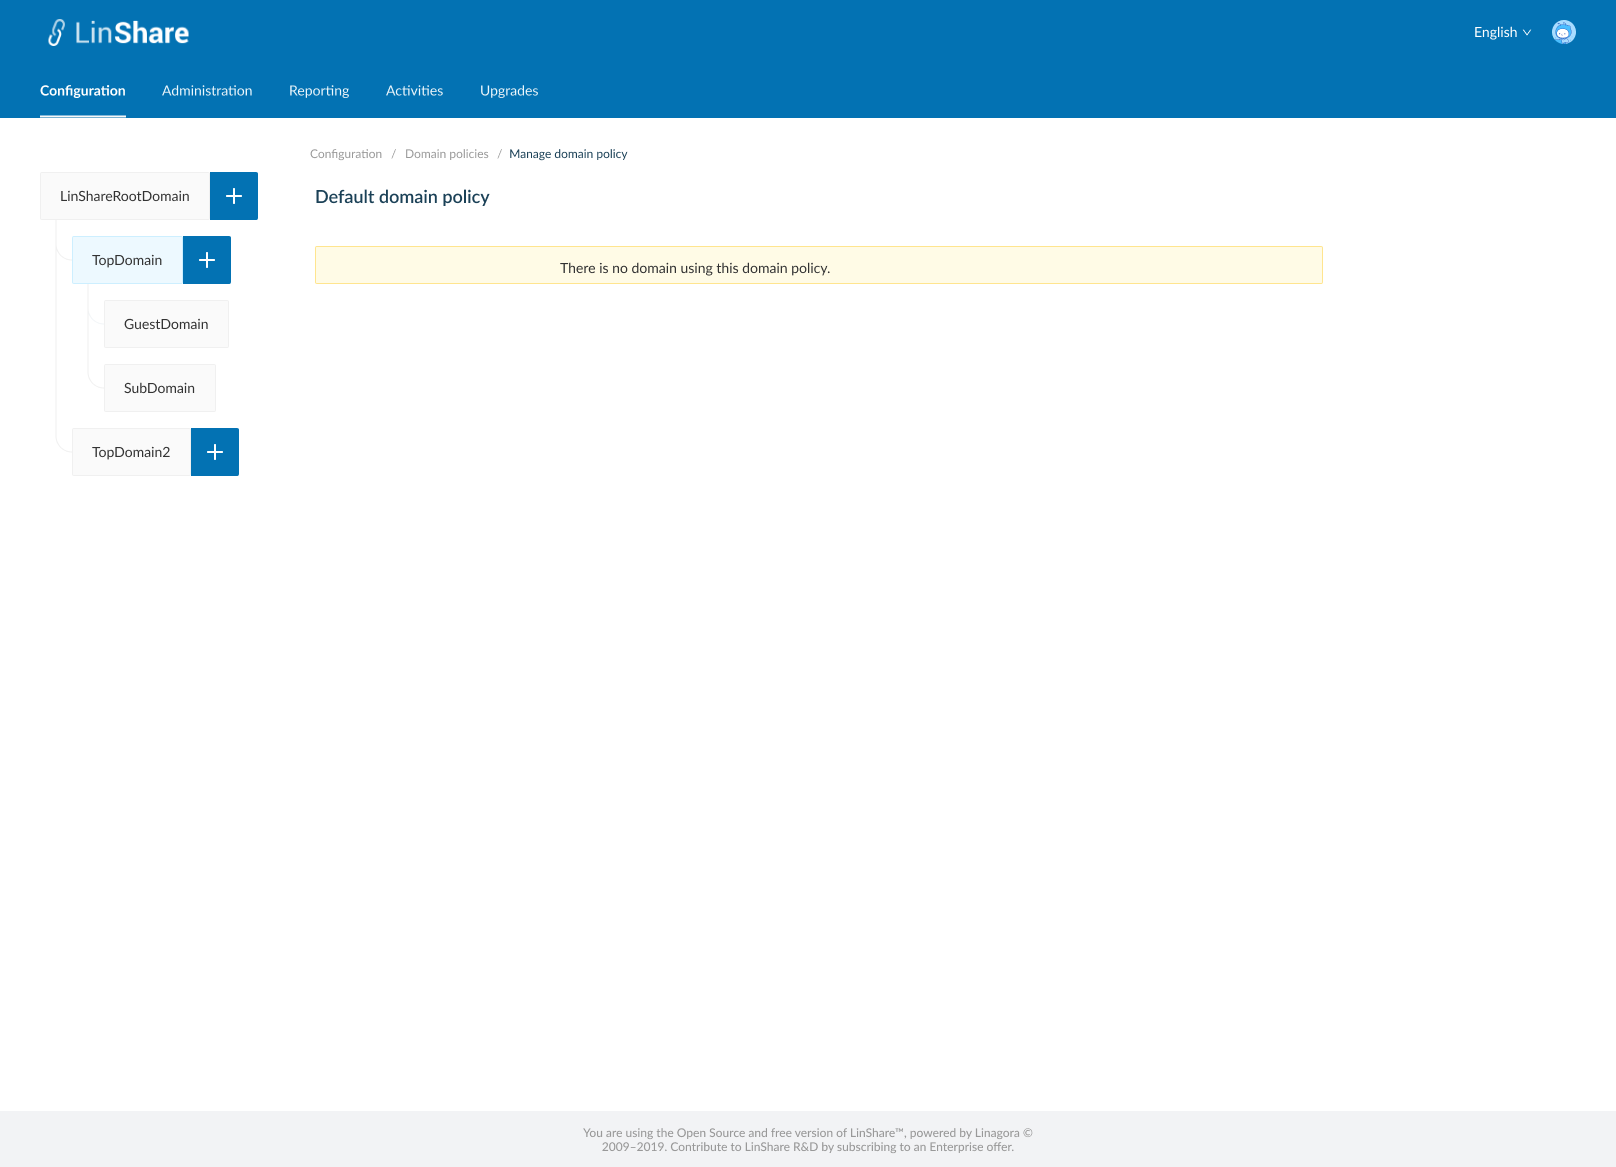
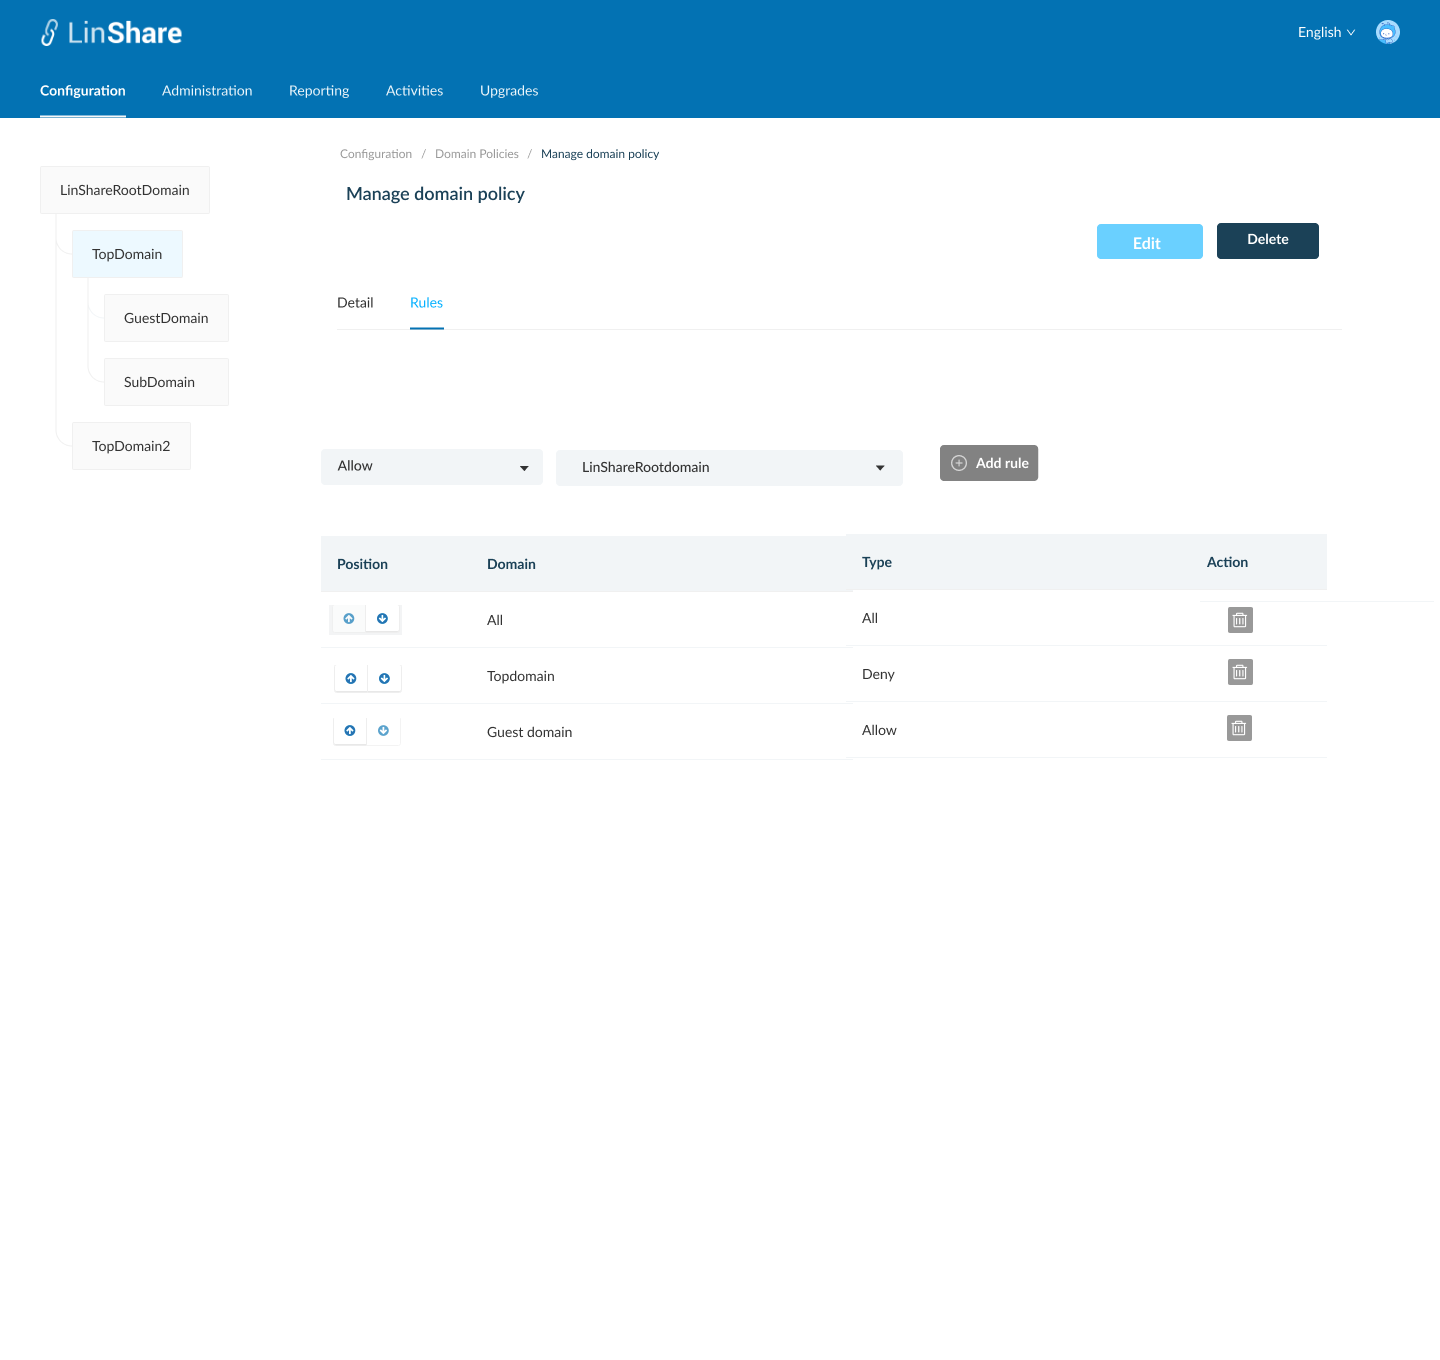
Update documentation/EN/epics/new-admin-portal/story-40-admin-manage-a-domain-policy.md

diff --git a/documentation/EN/epics/new-admin-portal/story-40-admin-manage-a-domain-policy.md b/documentation/EN/epics/new-admin-portal/story-40-admin-manage-a-domain-policy.md
@@ -23,14 +23,12 @@
 **UC1. Create a domain policy**
 - On Domain policies listing screen, i can click on create button 
 - The screen Create Domain ploicy will be displayed.
-- To create a Domain policy, i need to input fields:
+- I can see 2 tabs: Detail and Rules
+- In Detail tab, i need to input fields:
    - Name: a text field and mandatory
    - Description: a text field and optional
-- The non-editable fields incude:
-   - Creation date
-   -Modification date
-- Add rules: 
-   - I can select type and domain from the deop-down list and click button Add
+- Then i can Add rules in second tab:
+   - I can select type and domain from the drop-down list and click button Add
       - Type: Allow/Deny
       - Domain: List of current domains and an option "All"
 - The new rule will be added to the Rule table below 
@@ -40,7 +38,7 @@
    - Type: The type i selected when adding rule. 
    - Action: Delete: When i click on this button, there will be an confirmation message. If i choose Yes, the rule will be removed from the table. 
 - After adding rules, i click button Save 
-- The system will validate if field "Name" is blank, it will be highlighted in red and a message:"[field name] cannot be blank"
+- The system will validate if field "Name" is blank, it will be highlighted in red and a message:"[field name] cannot be blank" 
 - If there is no error, the new domain policy is created and there will be a successful notification, 
 - I am redirected to the Screen Domain policies listing 
 - If i click button Cancel, i am navigated to Screen Domain policies listing
@@ -50,9 +48,9 @@
 - There are 2 ways to access domain policy screen:
    - In the domain policy listing screen, i click on three dot-button of a domain policy and select option Detail from the drop-down list
    - Or i can click on the domain policy row in the domain policies listing table. 
-- By default, the Domain policy detail screen will be in View mode with a label "Read only" on the screen name
+- By default, the Domain policy detail screen will be in View mode 
 - If the Domain policy is Default Domain policy, there is only button Cancel to navigate back to listing domain policies screen 
-- If the Domain policy is not default, there will be button Edit, i click on this button, the Edit mode will be enabled 
+- If i have permission to Edit the domain policy, there will be button Edit, i click on this button, the Edit mode will be enabled 
 - I can edit all fields Name, Description and Add/remove rules then click button Save.
 - The system will validate if field "Name" is blank, it will be highlighted in red and a message:"[field name] cannot be blank"
 - If there is no error, the updates will be saved and there will be a successful toast message.
@@ -64,13 +62,12 @@
 - The screen Create Domain policy will be opened.
 - Except the field Name is blank, other fields will have the same value as the Domain policy that i selected to duplicate
 - I input the field Name, and can edit other fields
-- When i click button Save, the system will validate as UC 1, create a new Domain message. 
+- When i click button Save, the system will validate as UC 1, create a new Domain policy. 
 
 **UC4. Delete a Domain policy**
 
-- I can delete every Domain policy
-- The default welcome message is alway in view mode with a lable "Read only" and there is no Edit/Delete button.
-- There are 2 ways to delete a Doamin policy :
+- As super-admin, I have delete permission to delete every Domain policy except for the Default domain policy by system. There is no Delete button for this Domain policy.
+- There are 2 ways to delete a Domain policy :
    - In the Domain policy listing screen, i click on three dot-button of an Domain policy and select option Delete from the drop-down list
    - Or i can click an Domain policy row on the listing table to go to  Domain policy  detail screen. On this screen i can see the button Delete.
 - When i click on button Delete:
@@ -81,7 +78,7 @@
 
 **UC5. Delete multiple domain policies**
 
-- On  Domain policies listing screen, i can select multiple domain policies on the list by tick the checkbox of each item
+- On Domain policies listing screen, i can select multiple domain policies on the list by tick the checkbox of each item
 - There will be a top bar that indicates number of selected  Domain policies, an isolation icon, an Undo icon and a Delete icon. 
 - When i click on Isolation icon, the screen only shows selected items 
 - When i click on Undo icon, all the selected items are unselected 
@@ -90,7 +87,7 @@
    - If any of selected Domain policy is not associated with any domain, there will be an confirmation popup: "You are about to delete [number of selected items]  Domain policies, this procedure is irreversible. Do you want to proceed?" and Yes/No button 
       - I choose Yes to confirm, the selected  domain policies will be deleted.
       - System will prompt a deletion confirmation toast.
-   - If any of selected  Domain policy is associated with one domain, the system will display message: " One of selected domain policy is associated with at least one domain. You cannot delete."
+   - If any of selected  Domain policy is associated with one domain, the system will display message: " One of selected domain policies is associated with at least one domain. You cannot delete."
 
 **UC6. Assign a Domain policy**
 
@@ -105,13 +102,15 @@
 - I cannot assign a domain policy for Root domain: If i am selecting Root domain on Domain tree and click thee-dot button of a domain policy, the option assign will be hidden. 
 
 **UC7. View associated domain**
+
 - On Domain policies listing screen, i click on three-dot button on Action column.
 - I select option "View associated domains"
 - A new screen will be opened
 - I can see the list of domain's name which are using the Domain policies.
-- There will be a lable next to each domain's name that indicating domain type of that domain
-- When i click one domain on the list, i am navigated to Drive provider page of that domain.
-- If the Domain policy is not associated with any domain, there will be a text message: " There is no domain using this drive filter. "
+- There will be a label next to each domain's name that indicating domain type of that domain
+- When i click one domain on the list, i am navigated to Domain detail page of that domain.
+- If the Domain policy is not associated with any domain, there will be a text message: " There is no domain using this Domain policy. "
+
 #### Postconditions
 
 
@@ -132,6 +131,12 @@
 ![story40](./mockups/40.5.png)
 
 ![story40](./mockups/40.6.png)
+
+![story40](./mockups/40.7.png)
+
+![story40](./mockups/40.8.png)
+
+![story40](./mockups/40.9.png)
 
 
 #### Final design
